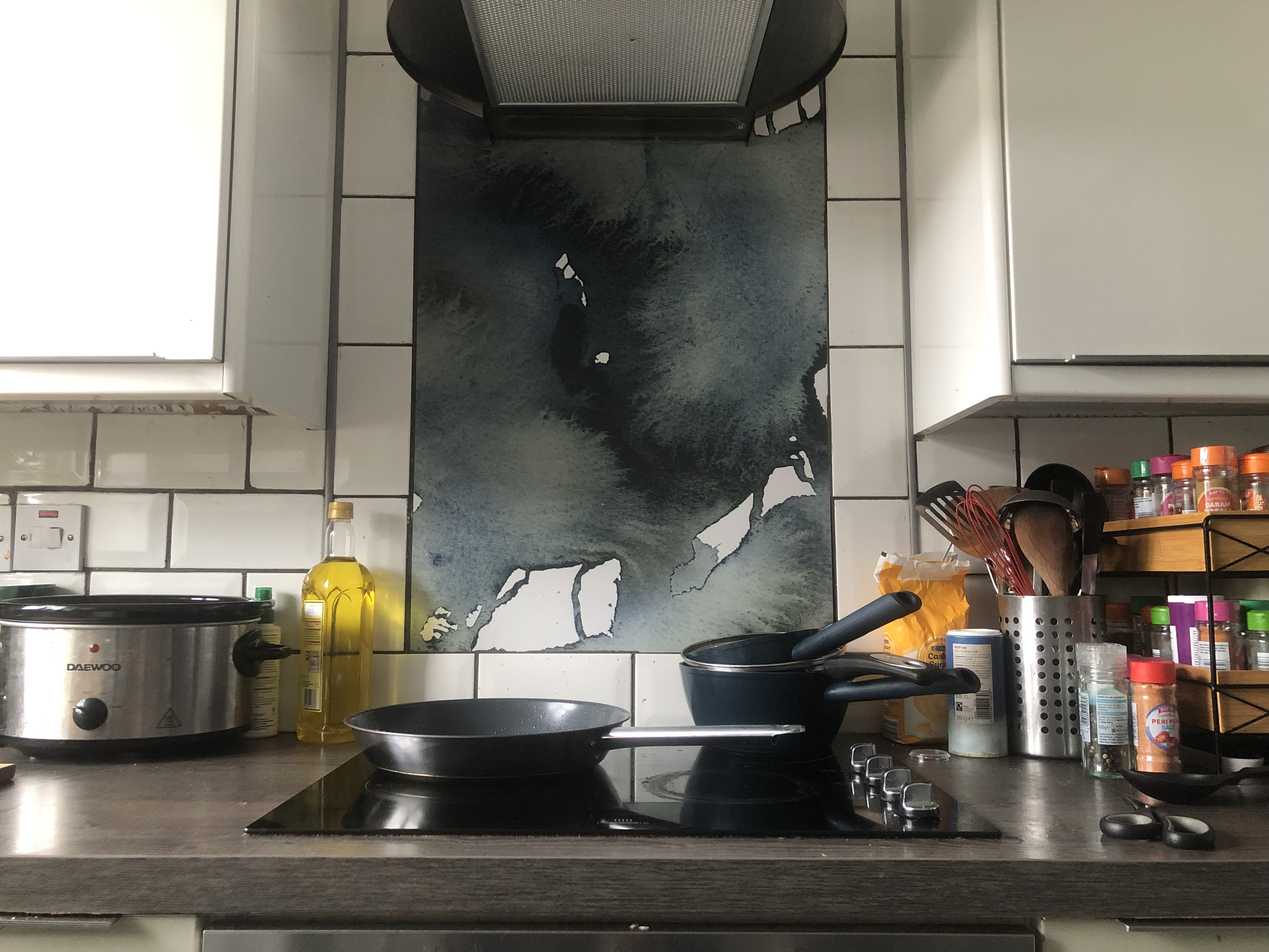
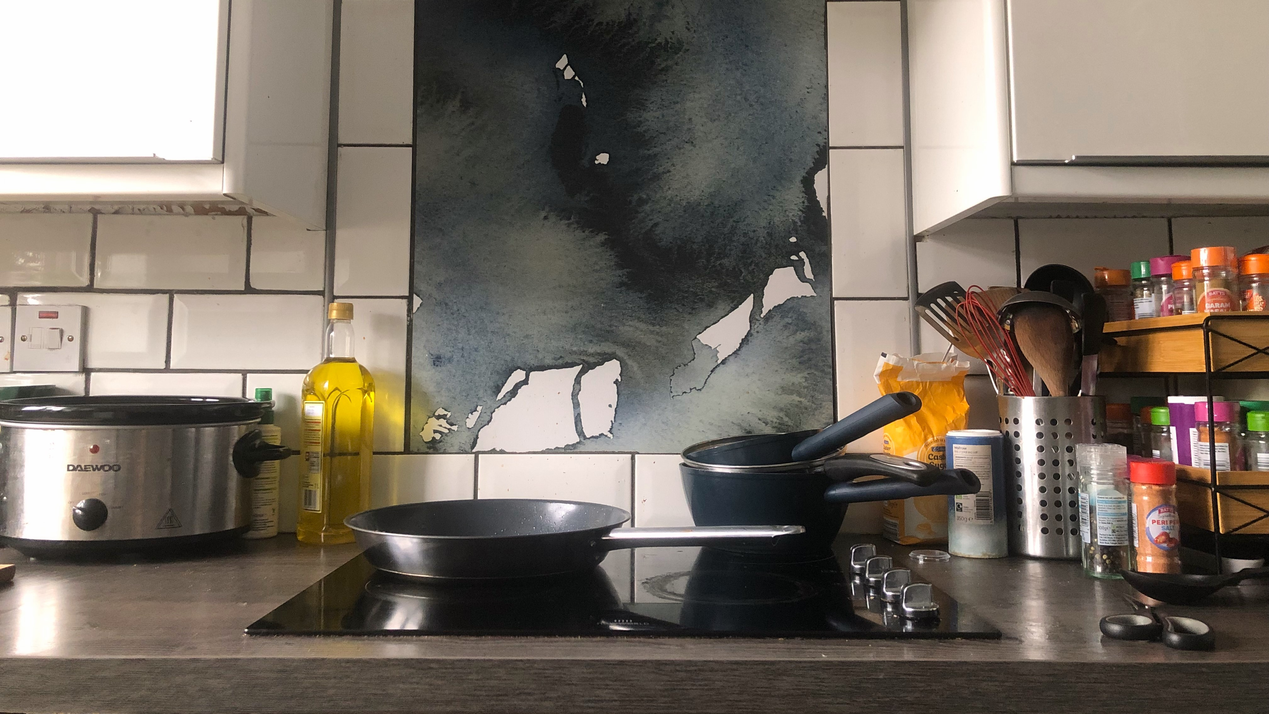
Fixed landscape view, standardised title page across devices

diff --git a/style.css b/style.css
@@ -10,7 +10,7 @@ a:link {
 }
 
 body {
-    height: 100vh;
+    height: min-content;
     margin: 0;
     min-width: 340px;
     font-family: sans-serif;
@@ -27,12 +27,6 @@ body {
     font-style: normal;
     color: var(--primary-text-color);
 }
-.cbyg {
-    font-family: "Covered by your Grace", cursive;
-    font-weight: 400;
-    font-style: normal;
-    color: var(--primary-text-color);
-}
 
 .page {
     display: flex;
@@ -44,38 +38,41 @@ body {
     flex-direction: column;
     justify-content: center;
     align-items: center;
-    position: relative;
-    height: 98vh;
+    /* position: relative; */
 }
 
-.bg-image {
-    position: absolute;
-    background-image: url("./images/kitchen-landscape.jpg");
-    background-repeat: no-repeat;
-    background-position: center;
-    background-size: cover;
+.bg-image-wrapper {
+    height: 0px;
     width: 100%;
-    height: 100%;
+}
+.bg-image {
+    position: relative;
+    background-image: url("./images/kitchen-landscape-edited-lq.jpg");
+    background-repeat: no-repeat;
+    background-position: 50% 10%;
+    background-attachment: fixed;
+    background-size: cover;
+    width: 100vw;
+    height: 100vh;
     z-index: -1;
 
-    -webkit-filter: blur(5px);
-    -moz-filter: blur(5px);
-    -o-filter: blur(5px);
-    -ms-filter: blur(5px);
-    filter: blur(5px);
+    -webkit-filter: blur(.25rem);
+    -moz-filter: blur(.25rem);
+    -o-filter: blur(.25rem);
+    -ms-filter: blur(.25rem);
+    filter: blur(.25rem);
 }
 
 .title-page-contents {
     width: 800px;
-    height: 100%;
+    height: 97vh;
 
     display: flex;
     flex-direction: column;
-    justify-content: start;
+    justify-content: center;
     align-items: center;
     gap: 30px;
 
-    padding-block: 400px;
 }
 
 .chopping-board {
@@ -261,21 +258,18 @@ body {
 /* Tablet */
 @media only screen and (max-width: 768px) {
     .title-page-container {
-        height: 60vh;
+        /* height: 60vh; */
     }
     .title-page-contents {
-        width: 500px;
+        /* width: 500px; */
         min-width: calc(.8*425px);
-        padding-block: 10vw;
+        /* padding-block: 10vw; */
     }
     .chopping-board {
         padding-inline: 10px;
     }
-    .heading {
-        text-wrap: wrap;
-    }
     .bg-image {
-        background-image: url("images/kitchen-portrait.jpg");
+        background-image: url("images/kitchen-portrait-edited-lq.jpg");
     }
 }
 
@@ -287,7 +281,8 @@ body {
     .chopping-board {
         border-radius: 0;
     }
-    #title-svg-wrapper {
+    #title-border-svg-wrapper {
+        /* Scales border-svg size in y direction + updates shift*/
         top: -48px;
         height: 50px;
         /*TODO transition: height 2s; */ 
@@ -311,7 +306,15 @@ body {
         align-items: center;
     } .searchbar input[type=submit] {
         width: 50%;
-    }
+    } 
+    
+}
+/* Incredibly awkward title-border shrinker for small landscape phones */
+@media only screen and (orientation: landscape) and (max-height: 425px) {
+    #title-border-svg-wrapper {
+        /* Scales border-svg size in y direction + updates shift*/
+        top: -38px;
+        height: 40px;
 }
 
 /* Mobile S */

diff --git a/index.html b/index.html
@@ -13,19 +13,19 @@
 </head>
 <body>
     <div class="page">
-
         <div class="title-page-container">
-            <div class="bg-image"></div>
+            <div class="bg-image-wrapper">
+                <div class="bg-image"></div>
+            </div>
             <div class="title-page-contents">
-                    <div class="chopping-board ftg">
-                        <div class="sub-heading">Welcome to</div>
-                        <div class="heading">Callum's Recipes.</div>
-                    </div>
-                    <form action="" class="searchbar">
-                        <input type="search" name="search" id="recipe-search">
-                        <input type="submit" value="submit" class="btn-submit">
-                    </form>
+                <div class="chopping-board ftg">
+                    <div class="sub-heading">Welcome to</div>
+                    <div class="heading">Callum's Recipes.</div>
                 </div>
+                <form action="" class="searchbar">
+                    <input type="search" name="search" id="recipe-search">
+                    <input type="submit" value="submit" class="btn-submit">
+                </form>
             </div>
         </div>
 
